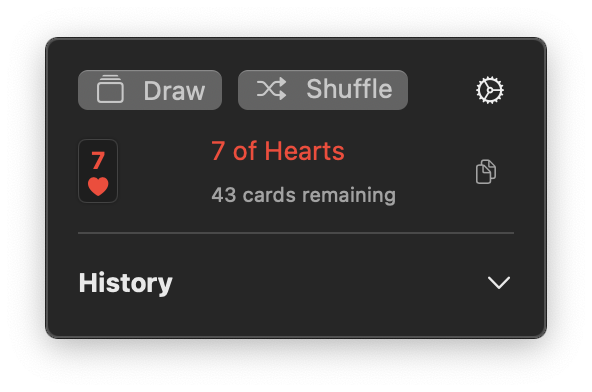
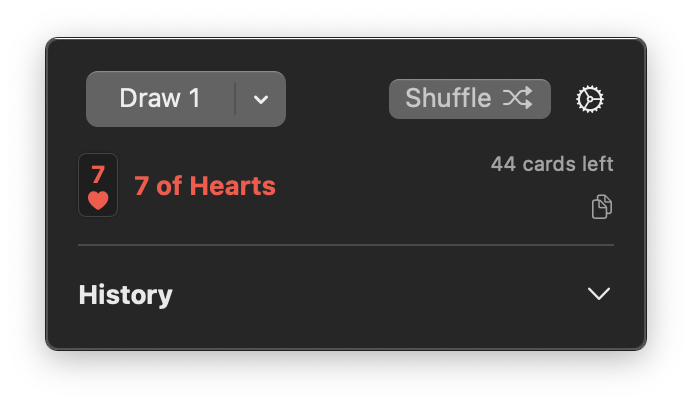
MacDeck release; small tweak to darkmode layout

diff --git a/style.css b/style.css
@@ -115,9 +115,12 @@ h1 {
 
 .screenshot-container {
     width: 100%;
-    height: 400px;  /* Fixed height for consistency */
+    height: 400px;
     position: relative;
     margin: 1.5rem 0;
+    display: flex;
+    justify-content: center;
+    align-items: center;
 }
 
 .screenshot {
@@ -125,25 +128,25 @@ h1 {
     max-width: 400px;
     height: 100%;
     border-radius: 8px;
-    margin: 0;  /* Remove margin since container handles spacing */
     box-shadow: 0 2px 4px var(--border-color);
-    object-fit: contain;  /* Maintain aspect ratio */
+    object-fit: contain;
     background-color: var(--section-bg);
     padding: 0.5rem;
+    position: absolute;
+    opacity: 1;
+    transition: opacity 0.2s ease;
 }
 
-/* Hide dark screenshot by default */
 .screenshot-dark {
-    display: none;
+    opacity: 0;
 }
 
-/* Show dark screenshot in dark mode */
 @media (prefers-color-scheme: dark) {
     .screenshot-light {
-        display: none;
+        opacity: 0;
     }
     .screenshot-dark {
-        display: block;
+        opacity: 1;
     }
 }
 

diff --git a/index.html b/index.html
@@ -72,10 +72,8 @@
             <li>Copy results as text or symbols</li>
           </ul>
           <div class="buttons">
-            <a class="btn secondary-btn">Direct Download<br />
-              Coming soon!</a>
-            <!-- <a href="https://github.com/josherrickson/MacDeck/releases/latest/download/MacDeck.app.zip"
-                 class="btn primary-btn">Download for macOS</a> -->
+            <a href="https://github.com/josherrickson/MacDeck/releases/latest/download/MacDeck.app.zip"
+               class="btn primary-btn">Download for macOS</a>
             <a href="https://github.com/josherrickson/MacDeck"
                class="btn secondary-btn">View on Github</a>
           </div>
